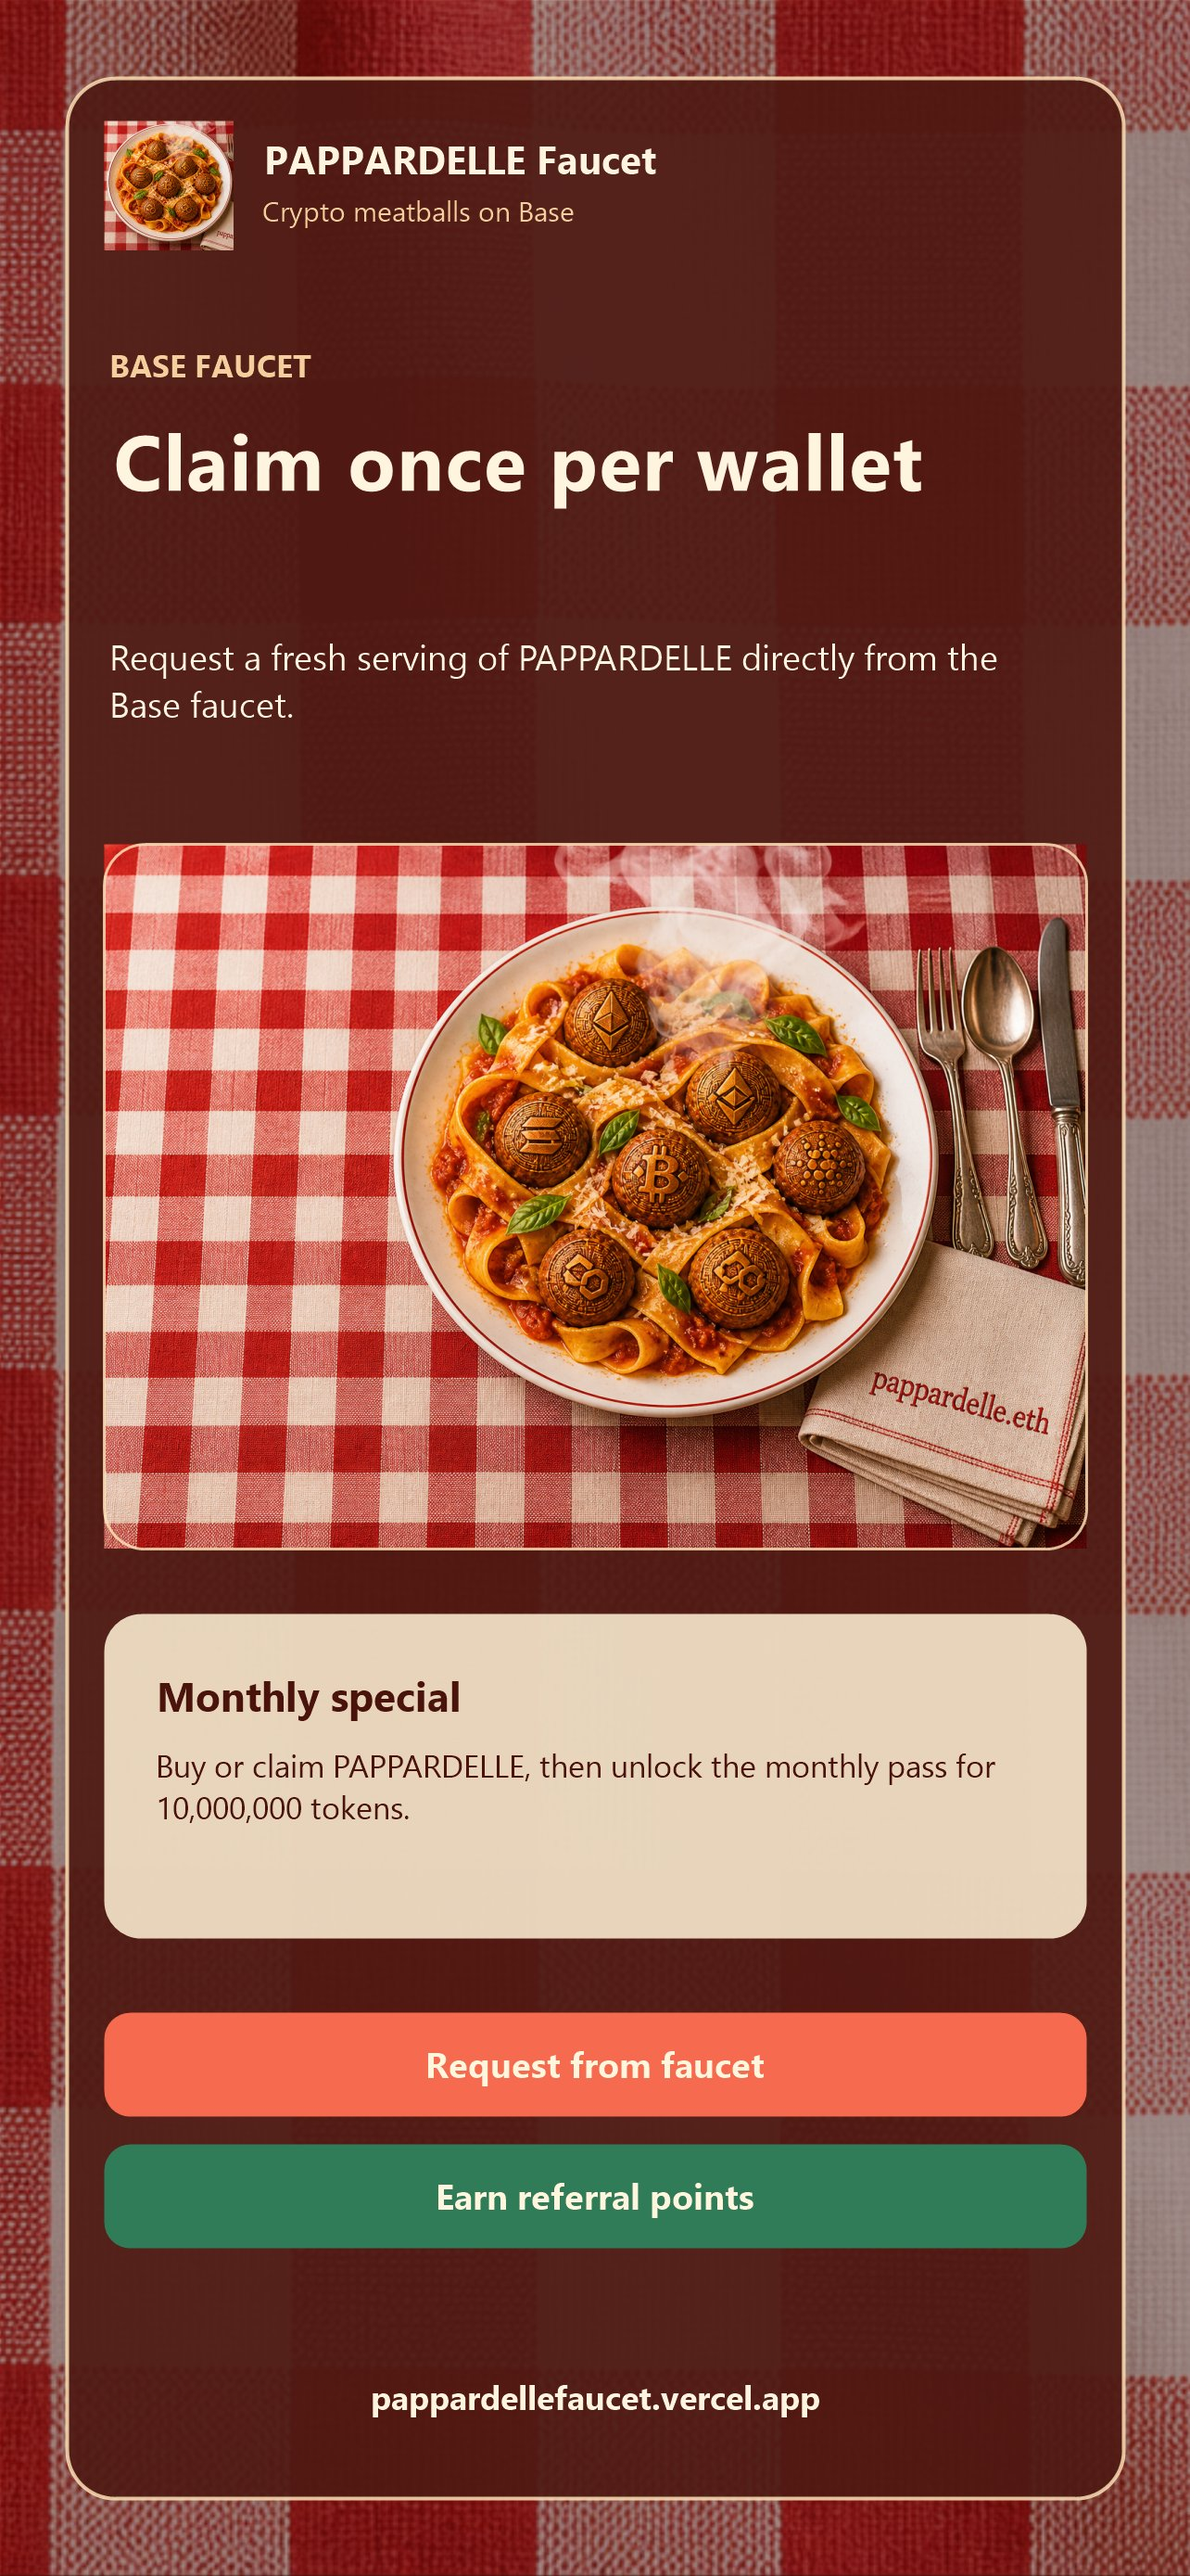
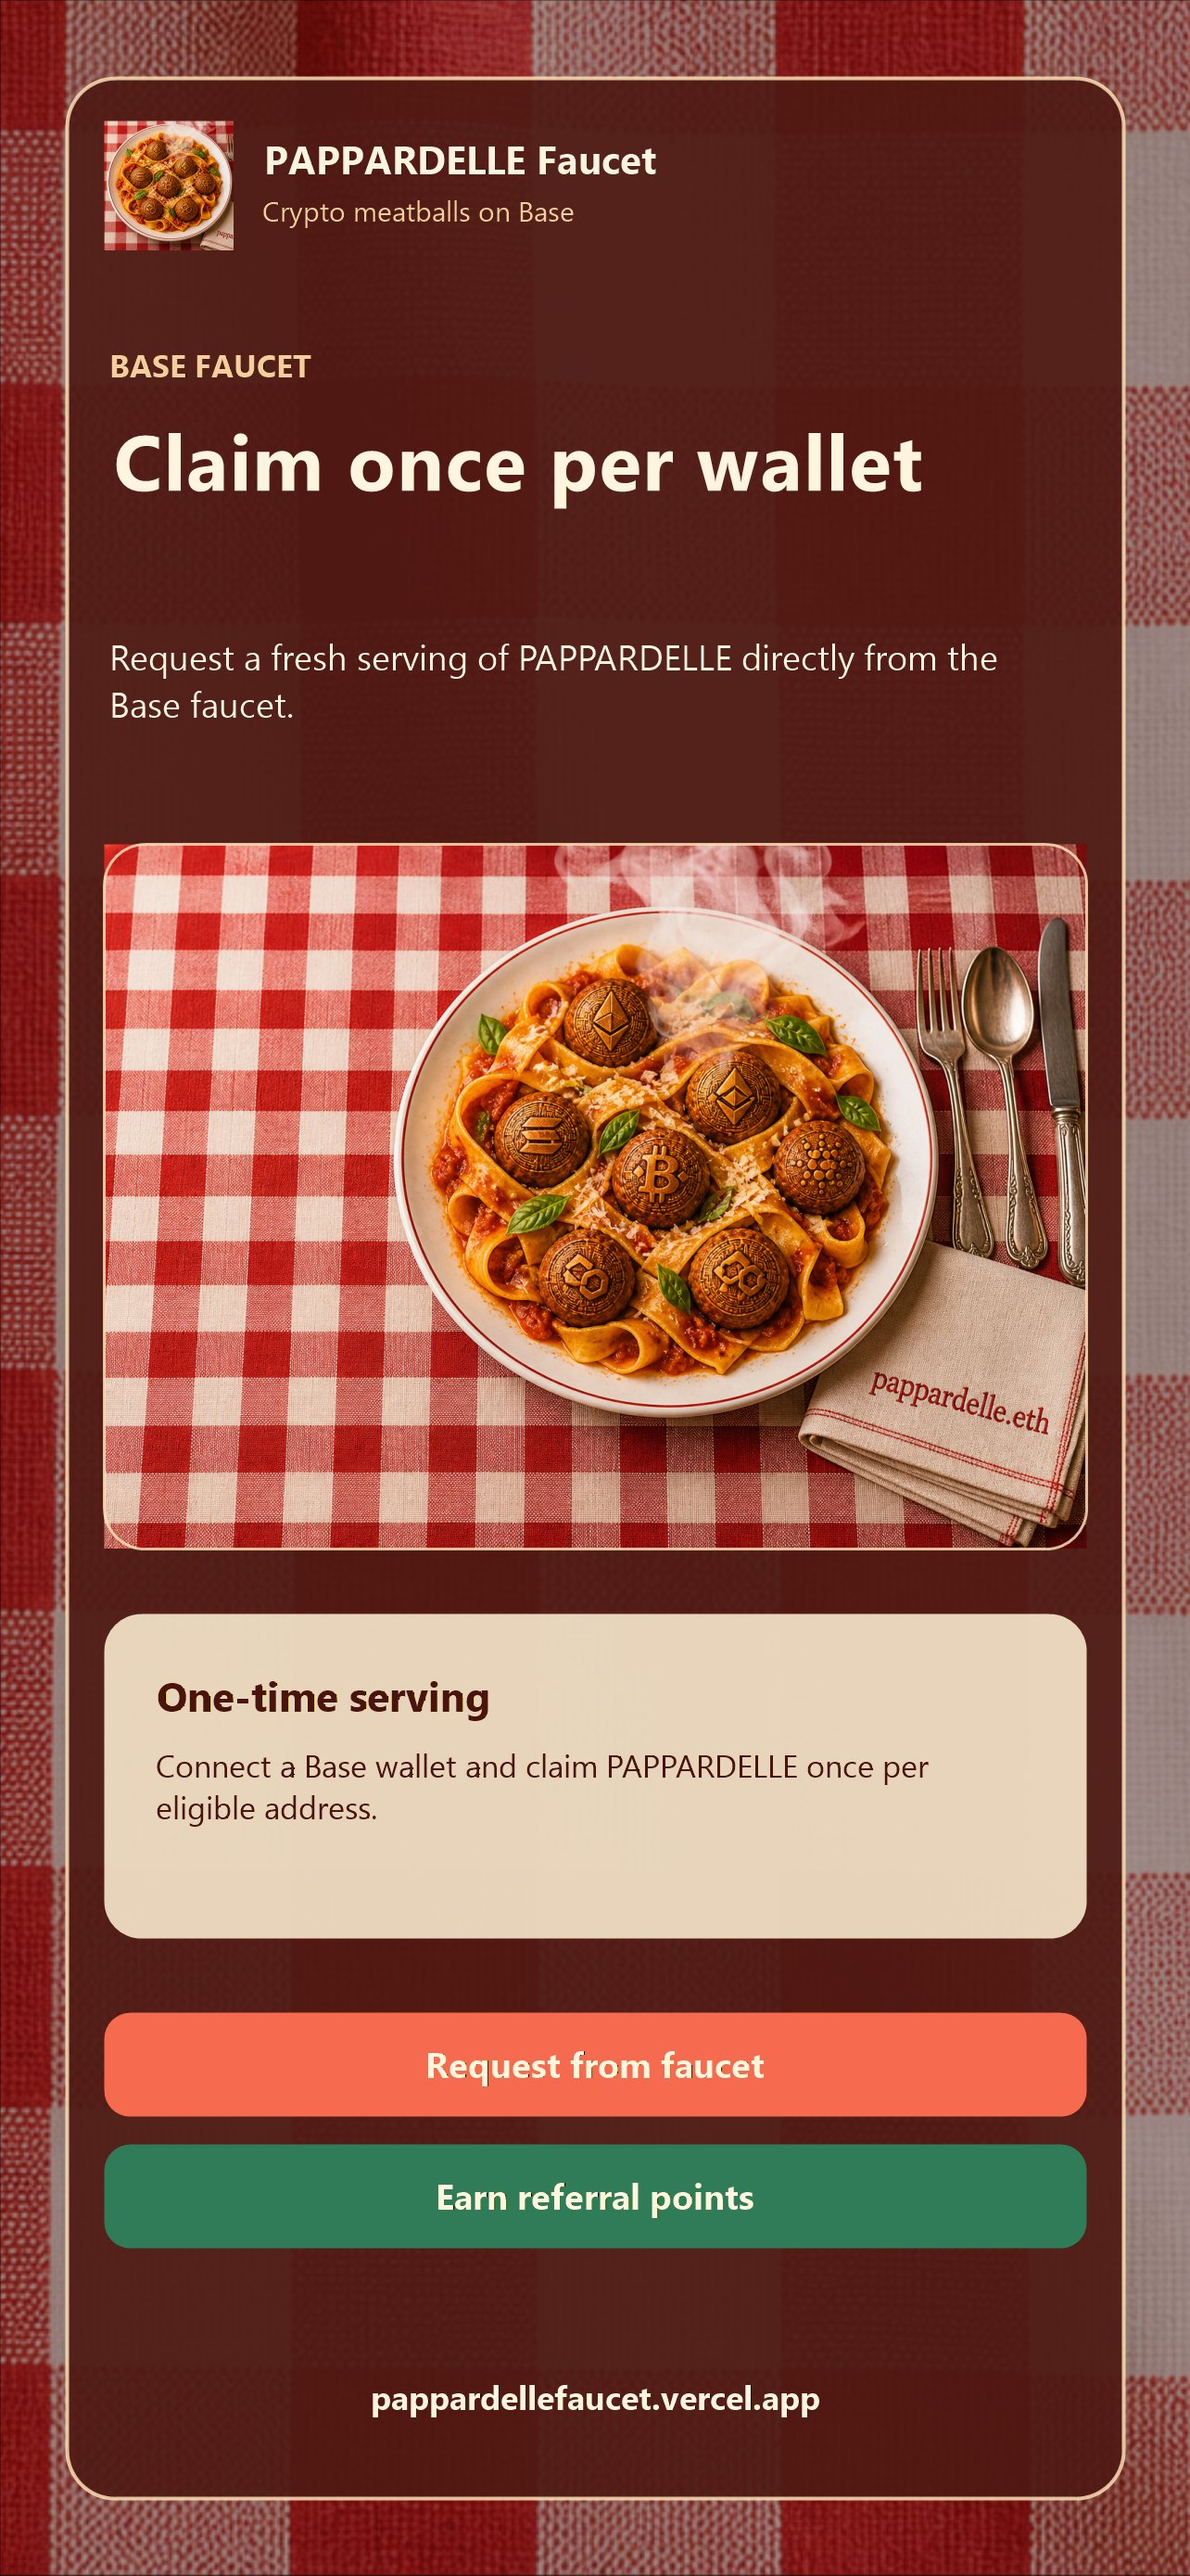
Remove monthly pass section

Changed region(s): [[0.1246, 0.6501, 0.7788, 0.712]]

diff --git a/components/FaucetApp.tsx b/components/FaucetApp.tsx
@@ -13,9 +13,7 @@ import {
   Loader2,
   Mail,
   PlugZap,
-  ShoppingBag,
   ShieldCheck,
-  Ticket,
   Trophy,
   Utensils,
   UserPlus,
@@ -39,8 +37,6 @@ import {
   appChainParams,
   baseRpcUrls,
   faucetAddress,
-  monthlyPassPrice,
-  monthlyPassRecipient,
   referralAuthApiUrl,
   referralChain,
   referralChainIdHex,
@@ -97,8 +93,6 @@ const configuredReferralRegistryAddress =
   referralRegistryAddress && isAddress(referralRegistryAddress)
     ? (referralRegistryAddress as Address)
     : undefined;
-const configuredMonthlyPassRecipient =
-  monthlyPassRecipient && isAddress(monthlyPassRecipient) ? (monthlyPassRecipient as Address) : undefined;
 const faucetSiteUrl = "https://pappardellefaucet.vercel.app/";
 const rektaurantUrl = "https://rektaurant.vercel.app/";
 const zoraUrl = "https://zora.co/@pappardelle/creator-coin";
@@ -151,7 +145,6 @@ export function FaucetApp() {
   const [showInvitation, setShowInvitation] = useState(false);
   const [donationAmount, setDonationAmount] = useState("");
   const [isDonating, setIsDonating] = useState(false);
-  const [isBuyingMonthlyPass, setIsBuyingMonthlyPass] = useState(false);
   const [pendingReferrer, setPendingReferrer] = useState<Address>();
   const [referralSnapshot, setReferralSnapshot] = useState<ReferralSnapshot>({});
   const [leaderboard, setLeaderboard] = useState<LeaderboardEntry[]>([]);
@@ -674,68 +667,6 @@ export function FaucetApp() {
     switchToBase
   ]);
 
-  const buyMonthlyPass = useCallback(async () => {
-    setError(undefined);
-    setStatus(undefined);
-    setTxHash(undefined);
-
-    if (!configuredMonthlyPassRecipient) {
-      setError("The monthly pass recipient is not configured yet.");
-      return;
-    }
-
-    try {
-      const parsedPassPrice = parseUnits(monthlyPassPrice, snapshot.decimals);
-
-      if (snapshot.walletBalance !== undefined && parsedPassPrice > snapshot.walletBalance) {
-        throw new Error(`You need ${monthlyPassPrice} PAPPARDELLE for the monthly pass.`);
-      }
-
-      const activeAccount = account || (await requestAccount());
-      await switchToBase();
-
-      const provider = getProvider();
-      if (!provider) throw new Error("Wallet not found.");
-
-      setIsBuyingMonthlyPass(true);
-      setStatus("Confirm the monthly pass purchase in your wallet.");
-
-      const walletClient = createWalletClient({
-        account: activeAccount,
-        chain: appChain,
-        transport: custom(provider)
-      });
-
-      const hash = await walletClient.writeContract({
-        address: tokenAddress,
-        abi: erc20Abi,
-        functionName: "transfer",
-        args: [configuredMonthlyPassRecipient, parsedPassPrice]
-      });
-
-      setTxChain("base");
-      setTxHash(hash);
-      setStatus("Monthly pass payment sent. Waiting for Base confirmation.");
-
-      await publicClient.waitForTransactionReceipt({ hash });
-      setStatus("Monthly pass purchased with PAPPARDELLE.");
-      await refresh(activeAccount);
-    } catch (monthlyPassError) {
-      setError(getErrorMessage(monthlyPassError));
-    } finally {
-      setIsBuyingMonthlyPass(false);
-    }
-  }, [
-    account,
-    getProvider,
-    publicClient,
-    refresh,
-    requestAccount,
-    snapshot.decimals,
-    snapshot.walletBalance,
-    switchToBase
-  ]);
-
   const claim = useCallback(async () => {
     setError(undefined);
     setStatus(undefined);
@@ -906,12 +837,6 @@ export function FaucetApp() {
     miniAppCompatibility.isMiniPay ||
     !configuredFaucetAddress ||
     !donationAmount.trim();
-  const monthlyPassDisabled =
-    isConnecting ||
-    isBuyingMonthlyPass ||
-    isRefreshing ||
-    miniAppCompatibility.isMiniPay ||
-    !configuredMonthlyPassRecipient;
 
   const claimLabel = miniAppCompatibility.isMiniPay
     ? "Base wallet required"
@@ -981,42 +906,6 @@ export function FaucetApp() {
             <strong>{faucetSiteUrl}</strong>
           </a>
         </div>
-      </section>
-
-      <section className="monthly-special" aria-label="PAPPARDELLE monthly special">
-        <div className="monthly-special-copy">
-          <div className="monthly-special-icon">
-            <Ticket size={28} />
-          </div>
-          <div>
-            <p className="eyebrow">Monthly special</p>
-            <h2>Monthly pass</h2>
-            <p>Buy PAPPARDELLE on Zora or request them from the faucet, then buy the monthly pass.</p>
-            <strong>Price: {monthlyPassPrice} {displaySymbol}</strong>
-          </div>
-        </div>
-
-        <div className="monthly-special-actions">
-          <a className="special-button secondary" href={zoraUrl} target="_blank" rel="noreferrer">
-            <ExternalLink size={18} />
-            <span>Buy on Zora</span>
-          </a>
-          <button className="special-button secondary" type="button" onClick={claim} disabled={claimDisabled}>
-            {isClaiming ? <Loader2 className="spin" size={18} /> : <PlugZap size={18} />}
-            <span>Request PAPPARDELLE from faucet</span>
-          </button>
-          <button className="special-button primary" type="button" onClick={buyMonthlyPass} disabled={monthlyPassDisabled}>
-            {isBuyingMonthlyPass ? <Loader2 className="spin" size={18} /> : <ShoppingBag size={18} />}
-            <span>Buy monthly pass using PAPPARDELLE</span>
-          </button>
-        </div>
-
-        {!configuredMonthlyPassRecipient ? (
-          <div className="notice warning">
-            <AlertTriangle size={18} />
-            <span>Set NEXT_PUBLIC_MONTHLY_PASS_RECIPIENT to enable monthly pass payments.</span>
-          </div>
-        ) : null}
       </section>
 
       <section className="claim-layout">

diff --git a/app/globals.css b/app/globals.css
@@ -250,100 +250,6 @@ h2 {
   overflow-wrap: anywhere;
 }
 
-.monthly-special {
-  display: grid;
-  gap: 18px;
-  padding: clamp(20px, 3vw, 30px);
-  border: 1px solid rgba(255, 246, 224, 0.48);
-  border-radius: 8px;
-  background:
-    linear-gradient(180deg, rgba(255, 252, 243, 0.96), rgba(255, 242, 215, 0.94)),
-    url("/images/italian-tablecloth.png") center / cover;
-  box-shadow: 0 22px 46px rgba(54, 12, 8, 0.22);
-}
-
-.monthly-special-copy {
-  display: flex;
-  align-items: flex-start;
-  gap: 14px;
-}
-
-.monthly-special-copy > div:last-child {
-  min-width: 0;
-}
-
-.monthly-special-icon {
-  width: 50px;
-  height: 50px;
-  flex: 0 0 auto;
-  display: grid;
-  place-items: center;
-  border-radius: 8px;
-  background: #f3ead2;
-  color: var(--tomato);
-}
-
-.monthly-special h2 {
-  margin-top: 4px;
-  font-size: clamp(2.2rem, 5vw, 4rem);
-}
-
-.monthly-special p {
-  max-width: 760px;
-  margin: 10px 0 0;
-  color: var(--muted);
-  font-weight: 800;
-  line-height: 1.45;
-}
-
-.monthly-special strong {
-  display: inline-flex;
-  margin-top: 12px;
-  color: var(--tomato);
-  font-size: 1.1rem;
-  font-weight: 950;
-  line-height: 1.2;
-  overflow-wrap: anywhere;
-}
-
-.monthly-special-actions {
-  display: grid;
-  grid-template-columns: repeat(3, minmax(0, 1fr));
-  gap: 10px;
-}
-
-.special-button {
-  min-height: 52px;
-  display: inline-flex;
-  align-items: center;
-  justify-content: center;
-  gap: 9px;
-  padding: 10px 14px;
-  border-radius: 8px;
-  cursor: pointer;
-  font-weight: 900;
-  line-height: 1.15;
-  text-align: center;
-}
-
-.special-button.primary {
-  background: linear-gradient(180deg, #1f6d3a, #164b2b);
-  color: #ffffff;
-  box-shadow: 0 16px 32px rgba(31, 109, 58, 0.2);
-}
-
-.special-button.secondary {
-  border: 1px solid var(--line);
-  background: #fffaf0;
-  color: var(--ink);
-}
-
-.special-button:disabled {
-  cursor: not-allowed;
-  opacity: 0.58;
-  box-shadow: none;
-}
-
 .claim-panel {
   min-height: 430px;
   display: grid;
@@ -1080,10 +986,6 @@ h2 {
     font-size: 2.6rem;
   }
 
-  .monthly-special-actions {
-    grid-template-columns: 1fr;
-  }
-
   .dish-showcase {
     min-height: 340px;
   }
@@ -1162,14 +1064,6 @@ h2 {
 
   .menu-dish-link strong {
     font-size: 0.92rem;
-  }
-
-  .monthly-special-copy {
-    flex-direction: column;
-  }
-
-  .monthly-special h2 {
-    font-size: 2rem;
   }
 
   .invite-modal {

diff --git a/lib/farcaster.ts b/lib/farcaster.ts
@@ -12,11 +12,11 @@ const frameImageUrl = `${siteOrigin}/images/pappardelle-faucet-banner.png`;
 const miniAppName = "PAPPARDELLE Faucet";
 const miniAppTagline = "Claim crypto meatballs on Base";
 const miniAppOgDescription =
-  "Claim PAPPARDELLE once per wallet on Base. Earn referral points and buy monthly passes with crypto meatballs from pappardelle.eth.";
+  "Claim PAPPARDELLE once per wallet on Base. Earn referral points, refill the faucet, and explore tools from pappardelle.eth.";
 const miniAppScreenshotUrls = [
   `${siteOrigin}/images/farcaster-screenshot-claim.jpg`,
   `${siteOrigin}/images/farcaster-screenshot-zora.jpg`,
-  `${siteOrigin}/images/farcaster-screenshot-pass.jpg`
+  `${siteOrigin}/images/farcaster-screenshot-donate.jpg`
 ];
 
 const defaultAccountAssociation = {

diff --git a/lib/chains.ts b/lib/chains.ts
@@ -15,12 +15,6 @@ export const referralRegistryAddress = process.env.NEXT_PUBLIC_REFERRAL_REGISTRY
 export const referralAuthApiUrl =
   process.env.NEXT_PUBLIC_REFERRAL_AUTH_API_URL || "/api/referral/authorize";
 
-export const monthlyPassRecipient = process.env.NEXT_PUBLIC_MONTHLY_PASS_RECIPIENT as
-  | `0x${string}`
-  | undefined;
-
-export const monthlyPassPrice = process.env.NEXT_PUBLIC_MONTHLY_PASS_PRICE || "10000000";
-
 export const baseRpcUrl = process.env.NEXT_PUBLIC_BASE_RPC_URL || "https://mainnet.base.org";
 export const baseRpcUrls = Array.from(
   new Set([baseRpcUrl, "https://base-rpc.publicnode.com", "https://base.llamarpc.com"])

diff --git a/app/page.tsx b/app/page.tsx
@@ -56,7 +56,6 @@ const jsonLd = {
         "Base network wallet connection",
         "Vault donation flow for faucet refills",
         "Celo referral leaderboard",
-        "Monthly pass purchase with PAPPARDELLE",
         "MiniPay and Farcaster Mini App compatibility",
         "Links to PAPPARDELLE on Zora and Rektaurant"
       ],

diff --git a/README.md b/README.md
@@ -27,7 +27,6 @@ Referral registry Celo deployato:
 - Il limite e salvato on-chain in `hasClaimed(address)`.
 - Il contratto opzionale `PappardelleReferralRegistry` viene deployato su Celo mainnet e assegna punti on-chain per un futuro airdrop.
 - La UI legge `?ref=0x...`, mostra la leaderboard Celo e puo chiedere al registrar di sincronizzare i punti dopo il claim.
-- La sezione "Monthly special" guida gli utenti a comprare PAPPARDELLE su Zora, richiederle dal faucet e comprare il monthly pass con PAPPARDELLE.
 - La UI include un hook di compatibilita per MiniPay e Farcaster Mini Apps: rileva MiniPay, chiama `sdk.actions.ready()` in Farcaster e usa il provider Farcaster quando disponibile.
 - Il progetto espone `/.well-known/farcaster.json`, `/manifest.json`, meta `fc:miniapp` / `fc:frame` e un webhook Farcaster minimale.
 - Vercel ospita solo la UI, quindi non serve mettere una private key nel frontend.
@@ -113,8 +112,6 @@ NEXT_PUBLIC_FAUCET_ADDRESS=0xCE749CDe53b8E6791F300555d9ee8b1Df9B21f65
 NEXT_PUBLIC_REFERRAL_REGISTRY_ADDRESS=0xAD85C867587F642Ba2303731F32fEA252838A025
 NEXT_PUBLIC_REFERRAL_RPC_URL=https://forno.celo.org
 NEXT_PUBLIC_REFERRAL_AUTH_API_URL=/api/referral/authorize
-NEXT_PUBLIC_MONTHLY_PASS_PRICE=10000000
-NEXT_PUBLIC_MONTHLY_PASS_RECIPIENT=0x...
 REFERRAL_CLAIM_SIGNER_PRIVATE_KEY=0x...
 REFERRAL_SIGNATURE_TTL_SECONDS=900
 FARCASTER_ACCOUNT_ASSOCIATION_HEADER=...
@@ -123,8 +120,6 @@ FARCASTER_ACCOUNT_ASSOCIATION_SIGNATURE=...
 ```
 
 `REFERRAL_CLAIM_SIGNER_PRIVATE_KEY` non deve mai essere `NEXT_PUBLIC`. Non serve tenerci CELO se usi la modalita firma: il signer autorizza, mentre l'utente invia la transazione `register(...)` su Celo.
-
-`NEXT_PUBLIC_MONTHLY_PASS_RECIPIENT` abilita il bottone "Buy monthly pass using PAPPARDELLE". La UI invia `NEXT_PUBLIC_MONTHLY_PASS_PRICE` token PAPPARDELLE a quell'indirizzo tramite `transfer()` ERC-20 su Base.
 
 ## MiniPay e Farcaster
 
